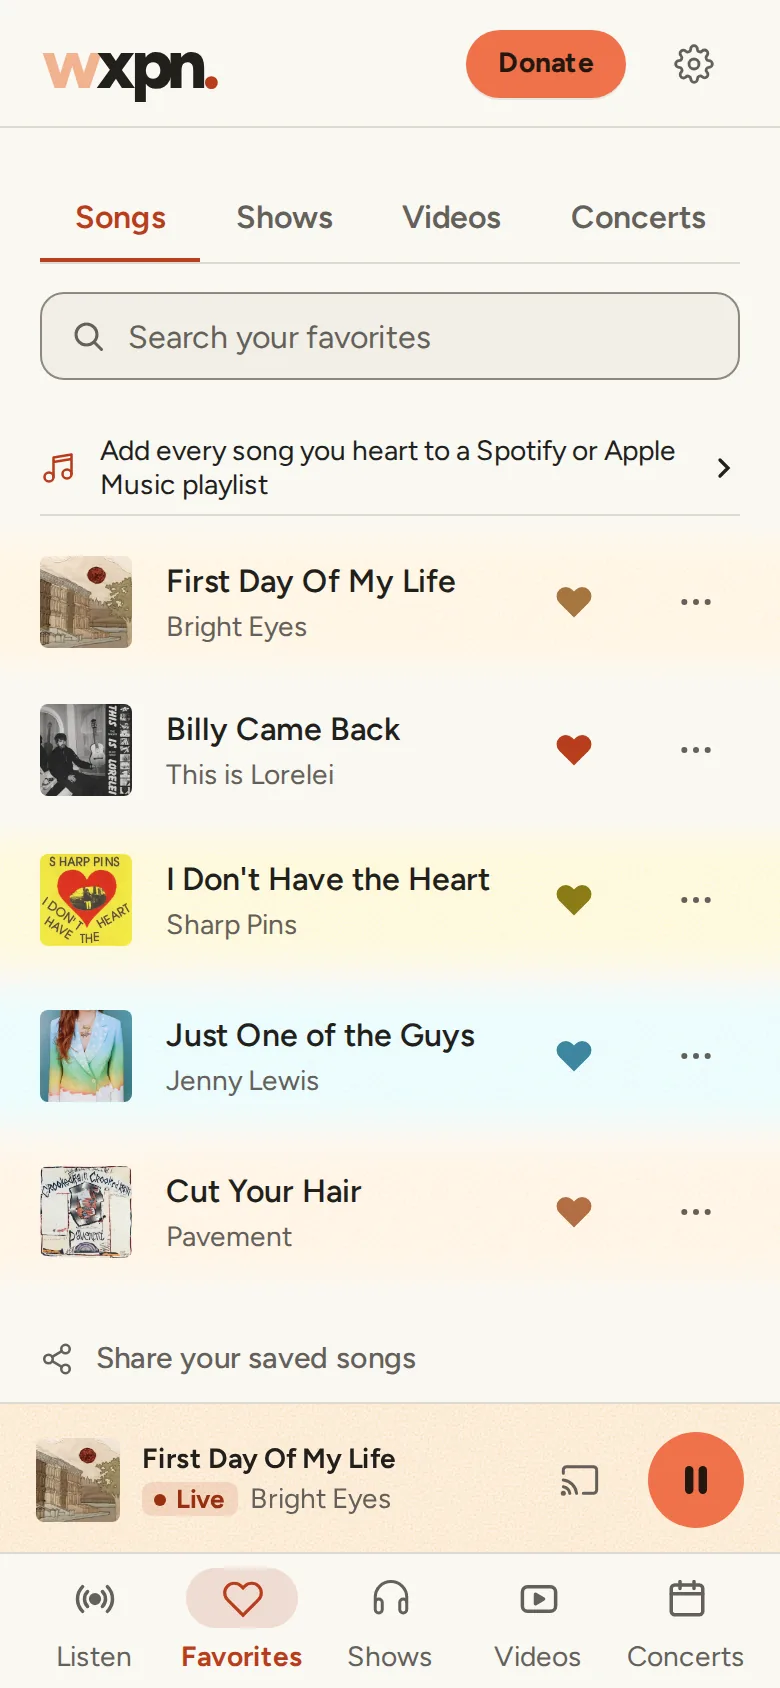
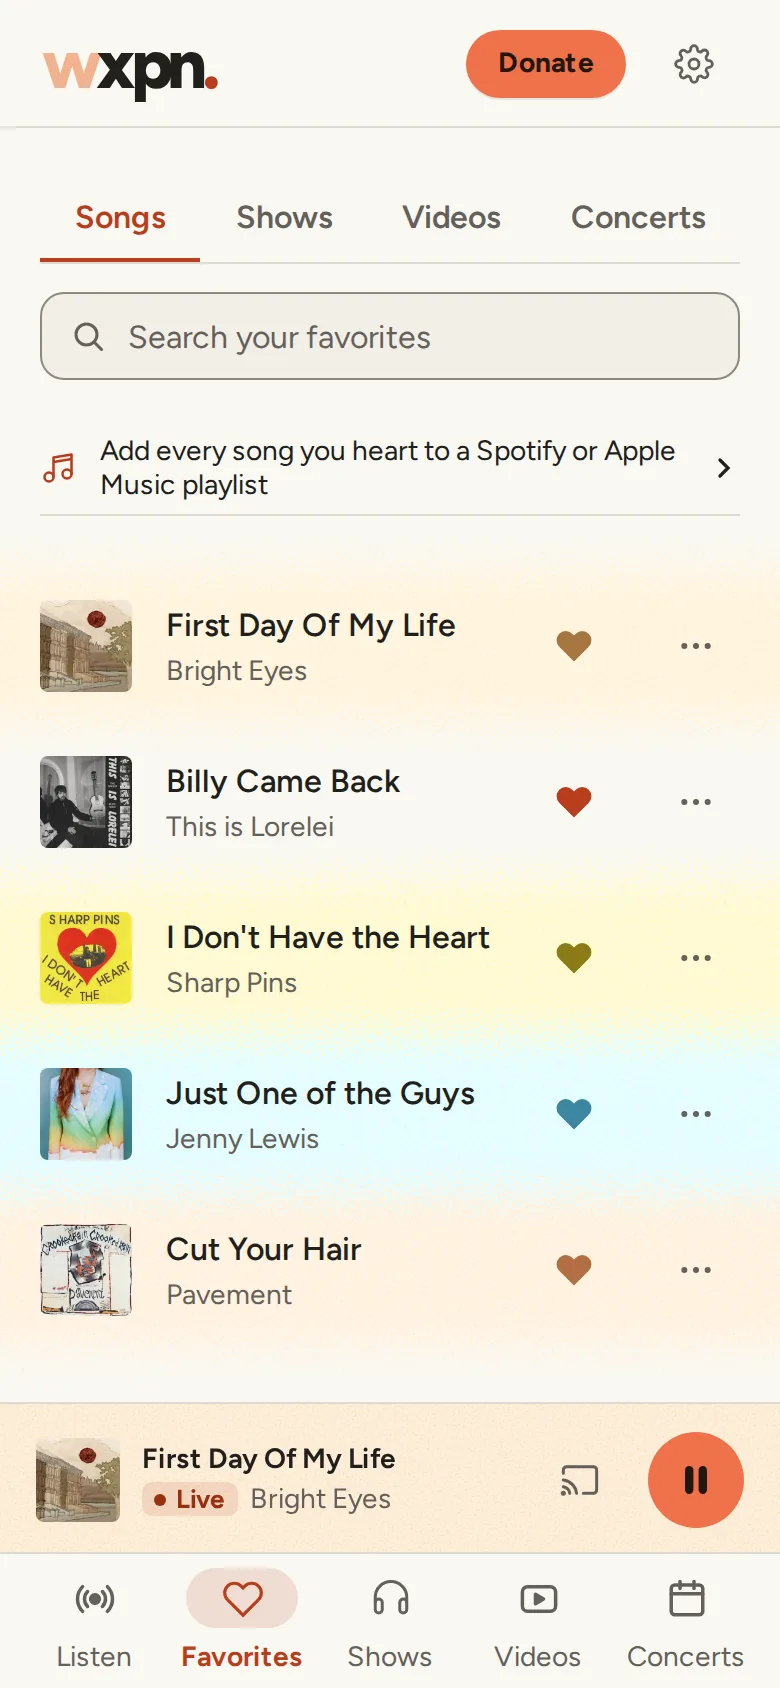
Screens page: Favorites with each song's color running into the next
Claude-Session: https://claude.ai/code/session_01CqQ5ihL6kgBEV77aRruJFn

Changed region(s): [[0.0, 0.3081, 1.0, 0.8318], [0.7077, 0.4313, 0.7692, 0.4929], [0.7077, 0.3389, 0.7692, 0.4005]]

diff --git a/design/screens/index.html b/design/screens/index.html
@@ -635,7 +635,7 @@
                 width="390"
                 height="844"
                 loading="lazy"
-                alt="Saved songs under tabs for Songs, Shows, Videos and Concerts and a prompt to connect a music service; each colorful song sits on a band of its artwork’s color across the screen that fades out through the grain at its top and bottom, its heart in that color."
+                alt="Saved songs under tabs for Songs, Shows, Videos and Concerts and a prompt to connect a music service; the songs sit on bands of their artwork’s colors running down the screen, each color coming in over the one before through the grain, and each heart in its song’s color."
               />
             </div>
             <div class="caption"><h3>Favorites</h3></div>
